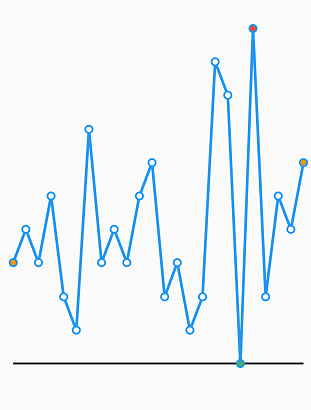
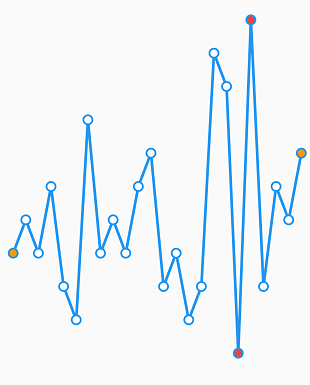
Spark chart changes committed

Changed region(s): [[0.029, 0.0312, 0.9871, 0.9351], [0.029, 0.2805, 0.4355, 0.8416]]

diff --git a/Flutter/sparkcharts/trackball.md b/Flutter/sparkcharts/trackball.md
@@ -27,12 +27,16 @@ You can use the following properties to customize the appearance:
         body: Center(
           child: SfSparkLineChart(
             trackball: SparkChartTrackball(
+              axisLineWidth: 0,
               backgroundColor: Colors.red.withOpacity(0.8),
-              borderColor: Colors.black,
+              borderColor: Colors.red.withOpacity(0.8),
               borderWidth: 2,
+              color: Colors.red,
               labelStyle: TextStyle(color: Colors.black),
               activationMode: SparkChartActivationMode.tap
             ),
+            marker: SparkChartMarker(
+                      displayMode: SparkChartMarkerDisplayMode.all),
             data: <double>[
               5, 6, 5, 7, 4, 3, 9, 5, 6, 5, 7, 8, 4, 5, 3, 4, 11, 10, 2, 12, 4, 7, 6, 8
             ],

diff --git a/Flutter/sparkcharts/sparkcharts-types.md b/Flutter/sparkcharts/sparkcharts-types.md
@@ -41,11 +41,12 @@ The following properties are used to customize the appearance:
       return Scaffold(
         body: Center(
           child: SfSparkLineChart(
+            axisLineWidth: 0,
             data: <double>[
                 5, 6, 5, 7, 4, 3, 9, 5, 6, 5, 7, 8, 4, 5, 3, 4, 11, 10, 2, 12, 4, 7, 6, 8
             ],
             highPointColor: Colors.red,
-            lowPointColor: Colors.green,
+            lowPointColor: Colors.red,
             firstPointColor: Colors.orange,
             lastPointColor: Colors.orange,
             width: 3,
